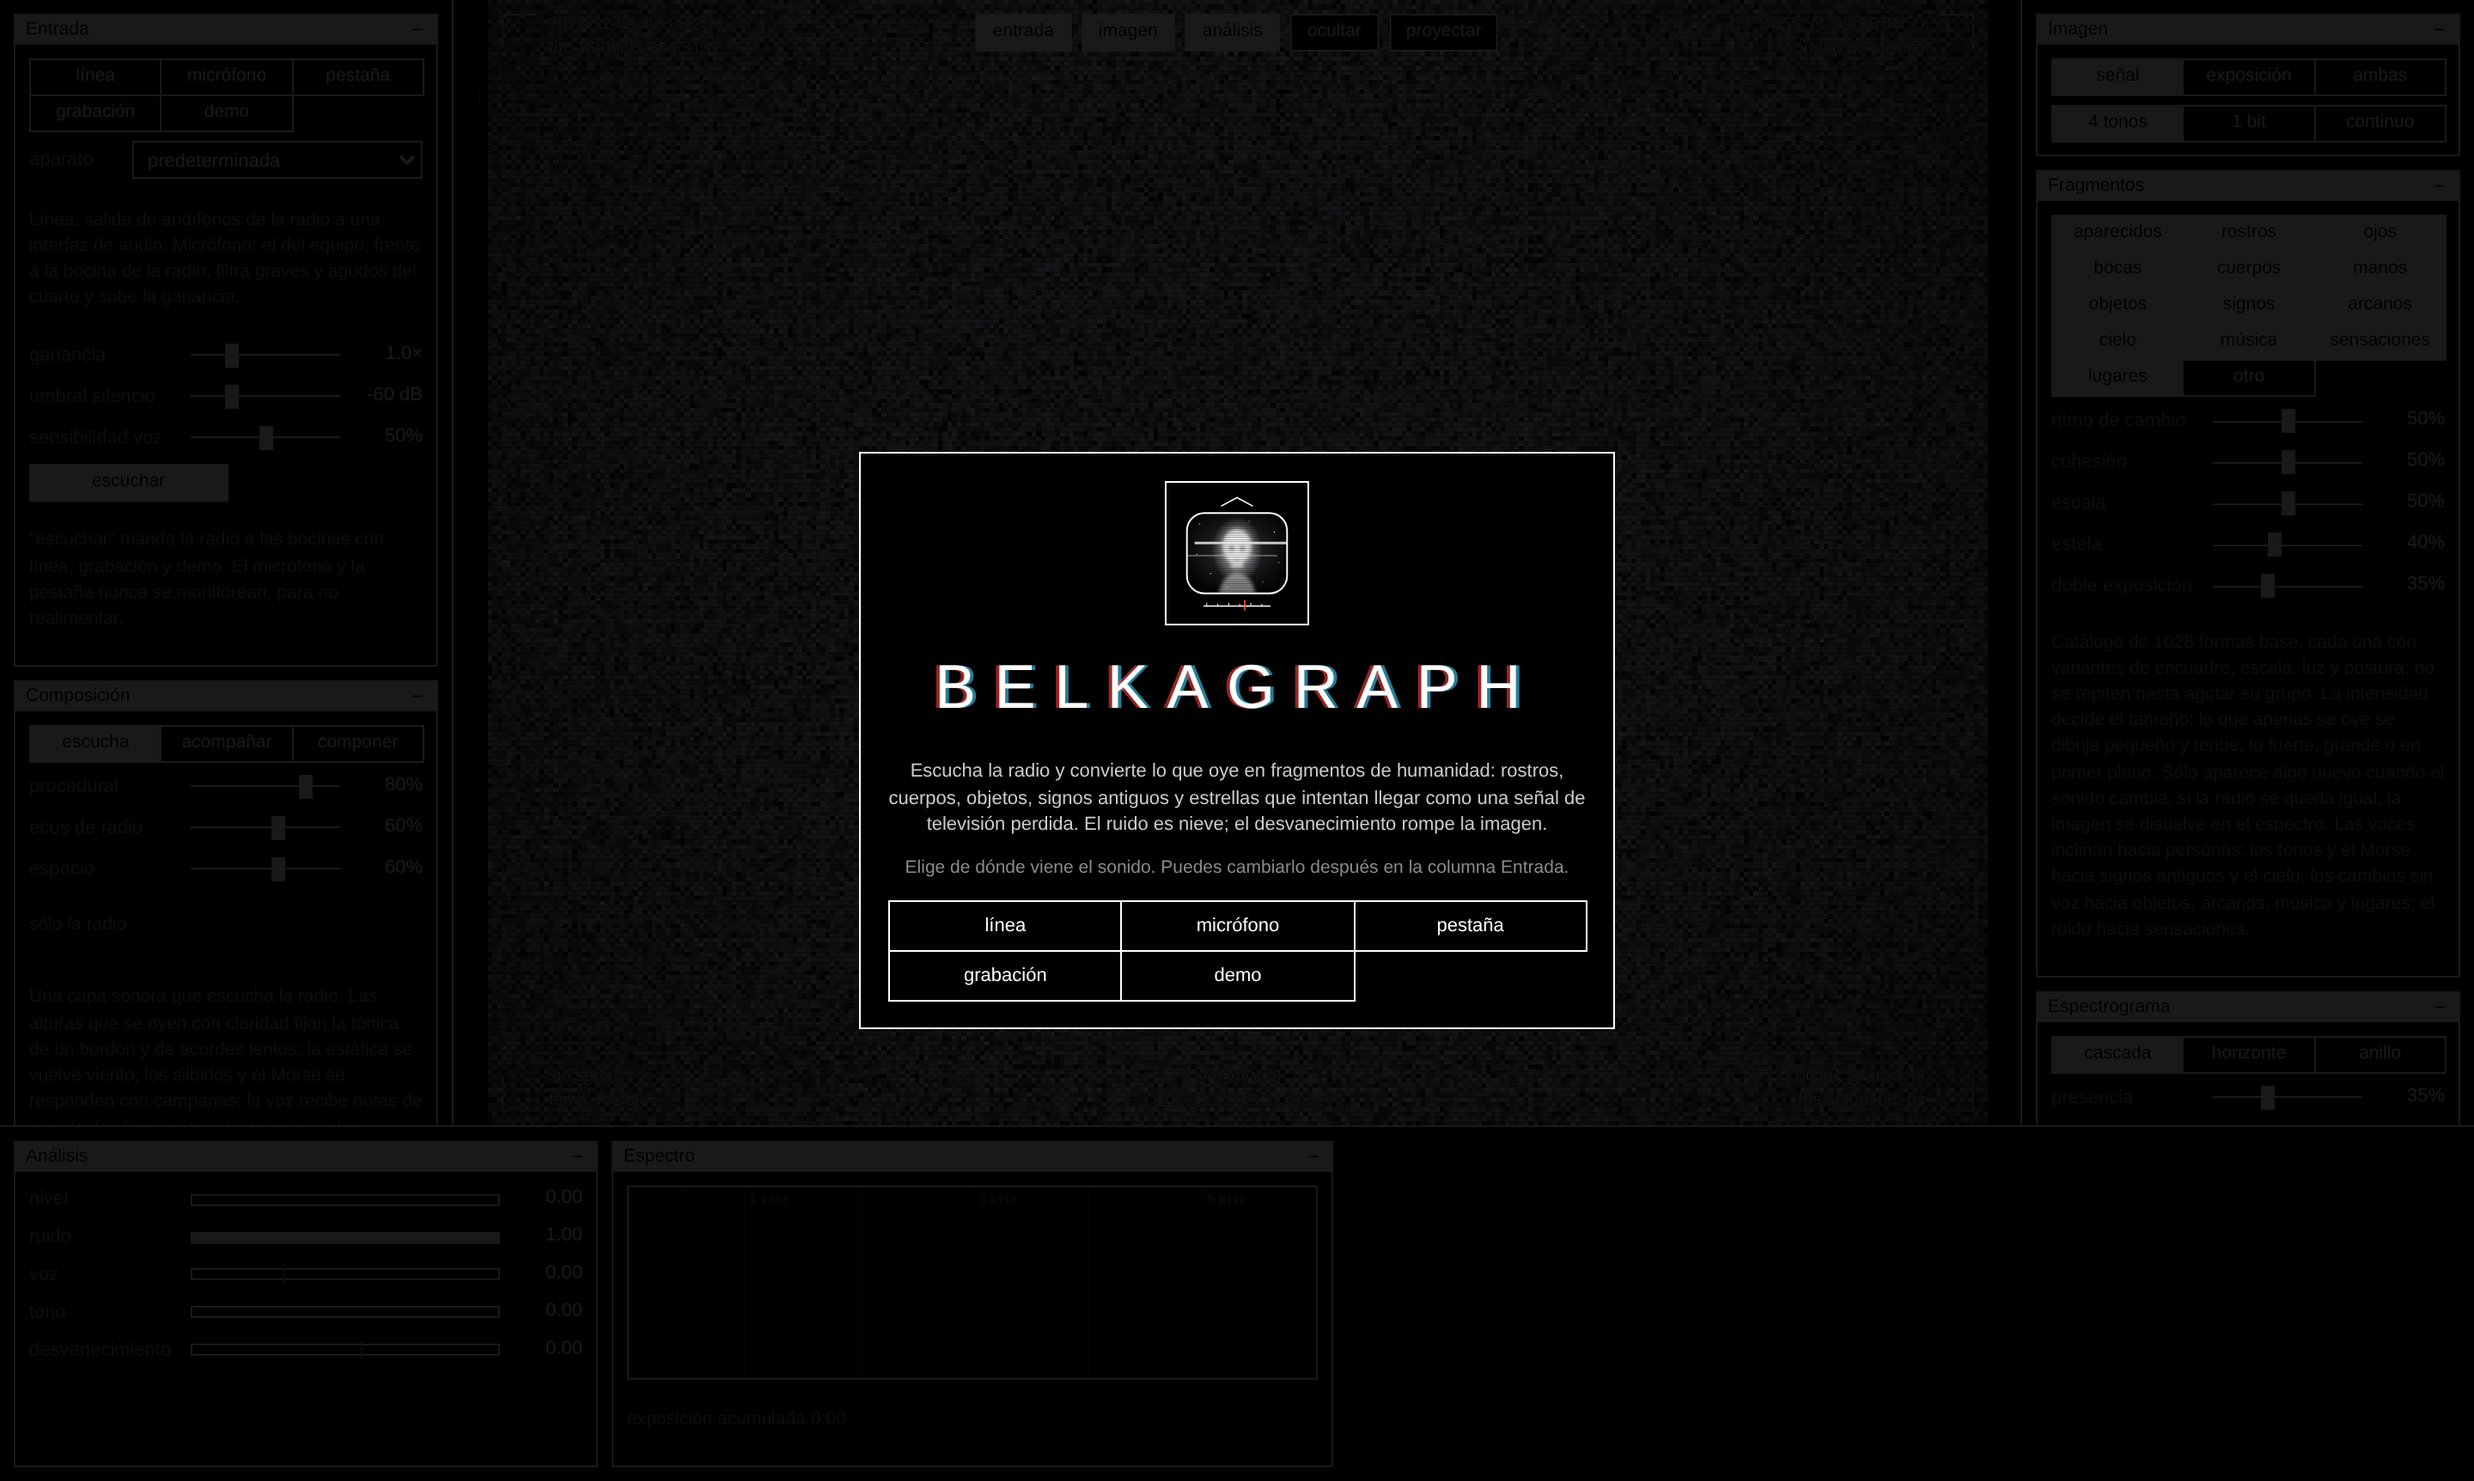
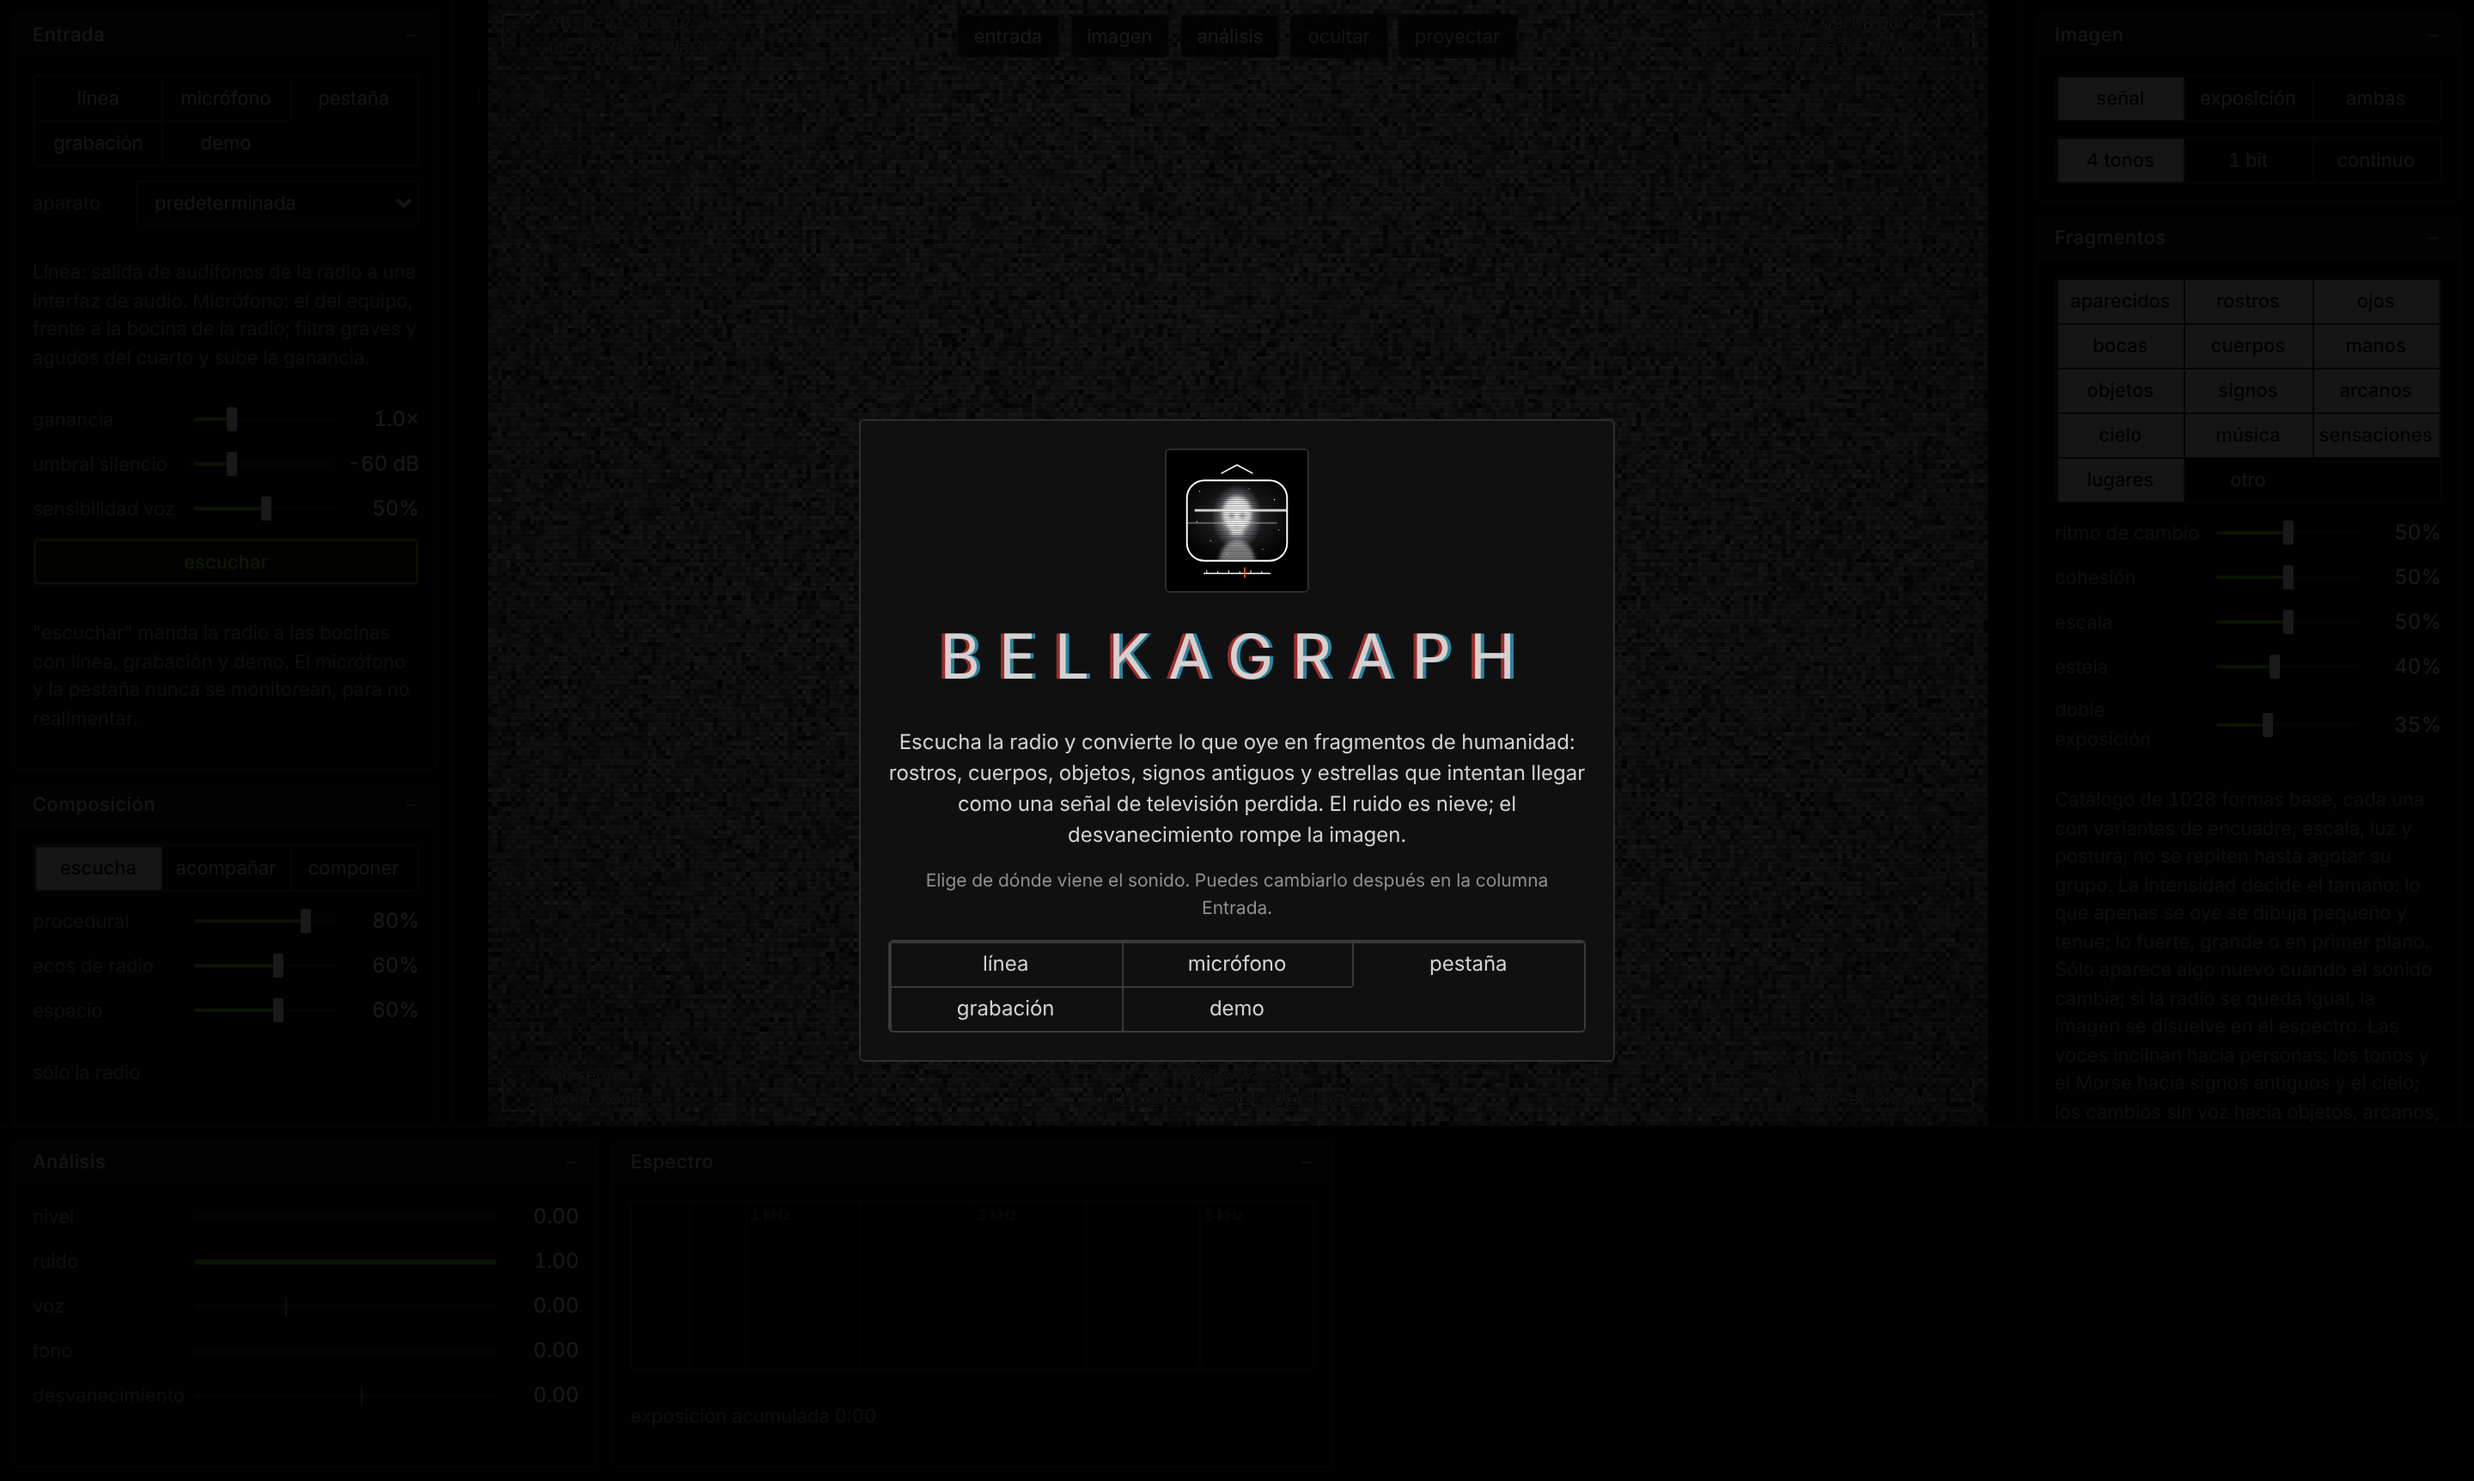
Belkagraph v020: interfaz con el estilo de la colección (alchemy-ui v1)
Ventanas grises de líneas finas, segmentados con el activo en tinta clara,
verde sólo para lo vivo (escuchar, acompañar, componer, medidores y relleno
de deslizadores), medidores de 3 px, scroll discreto. Capturas actualizadas.

Claude-Session: https://claude.ai/code/session_01BnGbnZn9TsuobG3mxSBJ2a

Changed region(s): [[0.3438, 0.2767, 0.6562, 0.7071]]

diff --git a/index.html b/index.html
@@ -151,6 +151,68 @@ body.nohud.showframe #frame{display:block!important}
 @media (max-width:700px){#frame .n,#fTitle{font-size:8.5px}}
 body.showframe #state,body.showframe #brand{display:none!important}
 body.showframe #aTag{bottom:auto;top:46px}
+
+/* ---------- Alchemy of Meaning · UI v1 (tokens y componentes de la colección) ---------- */
+:root{
+  --a-bg:#0a0a0a;--a-panel:#101010;--a-bar:#1c1c1c;--a-line:#2e2e2e;--a-line-ctl:#3a3a3a;--a-hover:#1f1f1f;
+  --a-ink:#d2d2d2;--a-ink-strong:#fff;--a-ink-dim:#8f8f8f;
+  --a-accent:#76c411;--a-accent-ink:#a5e04a;--a-accent-bg:#1b2512;
+  --a-radius:3px;--a-radius-sm:2px;--a-gap:8px;--a-pad:10px;--a-bar-h:24px;--a-ctl-h:32px;--a-t:120ms;
+  --a-font:Inter,Arial,Helvetica,sans-serif;--a-size:12px;--a-size-sm:11px;
+}
+:root[data-contrast="alto"]{--a-bg:#000;--a-panel:#000;--a-bar:#fff;--a-line:#fff;--a-line-ctl:#fff;--a-hover:#262626;--a-ink:#fff;--a-ink-dim:#a8a8a8}
+:root[data-contrast="alto"] .tb,:root[data-contrast="alto"] .tb button{color:#000}
+html,body,#app,#stage,.tube{background:var(--a-bg)}
+body{font:400 var(--a-size)/1.5 var(--a-font);color:var(--a-ink);font-variant-numeric:tabular-nums;-webkit-font-smoothing:antialiased}
+:focus-visible{outline:2px solid var(--a-accent);outline-offset:2px}
+/* ventanas */
+.win{border:1px solid var(--a-line);border-radius:var(--a-radius);background:var(--a-panel)}
+.tb{height:var(--a-bar-h);padding:0 var(--a-pad);background:var(--a-bar);border-bottom:1px solid var(--a-line);color:var(--a-ink);font-size:var(--a-size-sm);font-weight:500;letter-spacing:.02em}
+.tb button{color:var(--a-ink-dim);font-size:var(--a-size-sm)}.tb button:hover{color:var(--a-ink-strong)}
+.wb{padding:var(--a-pad);gap:var(--a-gap)}
+.col,#B{background:var(--a-bg);scrollbar-width:thin;scrollbar-color:var(--a-line-ctl) transparent}
+#L{border-right:1px solid var(--a-line)}#R{border-left:1px solid var(--a-line)}#B{border-top:1px solid var(--a-line)}
+/* botones */
+.b{background:transparent;color:var(--a-ink);border:1px solid var(--a-line-ctl);border-radius:var(--a-radius);font-size:var(--a-size);
+  transition:background var(--a-t),border-color var(--a-t),color var(--a-t)}
+.b:hover{background:var(--a-hover);border-color:#555}
+.b[aria-pressed="true"]{background:var(--a-accent-bg);border-color:var(--a-accent);color:var(--a-accent-ink)}
+.b.s{min-height:26px;font-size:var(--a-size-sm)}
+/* segmentados: el activo en tinta clara (el verde es solo para lo vivo) */
+.seg{border:1px solid var(--a-line-ctl);border-radius:var(--a-radius);overflow:hidden;gap:0}
+.seg .b{margin:0;border:0;border-radius:0;box-shadow:inset 1px 1px 0 var(--a-line-ctl);min-height:26px}
+.seg .b[aria-pressed="true"]{background:var(--a-ink);color:#0a0a0a;font-weight:500}
+.seg .b:hover:not([aria-pressed="true"]){background:var(--a-hover)}
+/* lo vivo: un alternador solo dentro de su grupo (escuchar, aparición, etc.) y el modo de composición que suena */
+.seg .b.live[aria-pressed="true"]{background:var(--a-accent-bg);color:var(--a-accent-ink);box-shadow:inset 0 0 0 1px var(--a-accent)}
+/* lecturas */
+.dr .lb,.mt .lb,.sel .lb,.note{color:var(--a-ink-dim);font-size:var(--a-size-sm)}
+output{color:var(--a-ink-strong)}
+select,.sel input{background:var(--a-panel);color:var(--a-ink);border:1px solid var(--a-line-ctl);border-radius:var(--a-radius-sm);font-size:var(--a-size-sm);padding:4px 6px}
+/* deslizador: línea de 2 px con relleno de acento, tirador 6×14 */
+input[type=range]::-webkit-slider-runnable-track{height:2px;border-radius:1px;background:linear-gradient(to right,var(--a-accent) var(--fill,0%),var(--a-line) var(--fill,0%))}
+input[type=range]::-webkit-slider-thumb{width:6px;height:14px;margin-top:-6px;border-radius:1px;background:var(--a-ink-strong)}
+input[type=range]::-moz-range-track{height:2px;background:var(--a-line)}
+input[type=range]::-moz-range-progress{height:2px;background:var(--a-accent)}
+input[type=range]::-moz-range-thumb{width:6px;height:14px;border-radius:1px;background:var(--a-ink-strong)}
+/* medidores finos */
+.mt .bar{height:3px;border:0;border-radius:2px;background:var(--a-line)}
+.mt .bar i{background:var(--a-accent);border-radius:2px;transition:width .15s}
+.mt .bar u{top:-4px;bottom:-4px;background:var(--a-ink-dim)}
+#spec{border:1px solid var(--a-line);border-radius:var(--a-radius-sm);background:var(--a-bg)}
+/* superpuestos */
+#show{background:var(--a-panel);border:1px solid var(--a-line-ctl);border-radius:var(--a-radius);color:var(--a-ink)}
+#state i{border-color:currentColor;border-radius:50%}
+#state i.on{background:currentColor}
+.card{background:var(--a-panel);border:1px solid var(--a-line);border-radius:var(--a-radius)}
+.card p{color:var(--a-ink)}.card p.tip{color:var(--a-ink-dim)}.card a{color:var(--a-ink-strong)}
+.card h2,.card h3{color:var(--a-ink-strong)}
+.appIcon{border:1px solid var(--a-line);border-radius:var(--a-radius)}
+#start .seg{border-color:var(--a-line-ctl)}
+#top .b{background:rgba(16,16,16,.85)}
+#top .b[aria-pressed="true"]{background:rgba(16,16,16,.85);border-color:#666;color:var(--a-ink-strong)}
+.g1{grid-template-columns:1fr}
+#toast{background:var(--a-panel);border:1px solid var(--a-line-ctl);border-radius:var(--a-radius);color:var(--a-ink);font-size:var(--a-size-sm)}
 </style>
 </head>
 <body>
@@ -1871,10 +1933,10 @@ function build(){
   wb.append(slider('ganancia',()=>S.gain/4,v=>{S.gain=Math.max(.05,v*4);applyChain();},v=>(v*4).toFixed(1)+'×'));
   wb.append(slider('umbral silencio',()=>S.gate,v=>{S.gate=v;},v=>{const g=.0003*Math.pow(100,v);return (20*Math.log10(g)).toFixed(0)+' dB';}));
   wb.append(slider('sensibilidad voz',()=>S.sens,v=>{S.sens=v;},pct));
-  wb.append(segOf('g2',[tgBtn('escuchar',()=>S.monitor,()=>{S.monitor=!S.monitor;applyChain();})]));
+  wb.append(segOf('g1',[tgBtn('escuchar',()=>S.monitor,()=>{S.monitor=!S.monitor;applyChain();},'b s live')]));
   wb.append(el('p','note','"escuchar" manda la radio a las bocinas con línea, grabación y demo. El micrófono y la pestaña nunca se monitorean, para no realimentar.'));
   wb=win('Composición','wSnd',L);
-  wb.append(segOf('g3',[tgBtn('escucha',()=>S.snd.mode==='escucha',()=>sndMode('escucha')),tgBtn('acompañar',()=>S.snd.mode==='acompañar',()=>sndMode('acompañar')),tgBtn('componer',()=>S.snd.mode==='componer',()=>sndMode('componer'))]));
+  wb.append(segOf('g3',[tgBtn('escucha',()=>S.snd.mode==='escucha',()=>sndMode('escucha')),tgBtn('acompañar',()=>S.snd.mode==='acompañar',()=>sndMode('acompañar'),'b s live'),tgBtn('componer',()=>S.snd.mode==='componer',()=>sndMode('componer'),'b s live')]));
   wb.append(slider('procedural',()=>S.snd.proc,v=>{S.snd.proc=v;sndLevels();},pct));
   wb.append(slider('ecos de radio',()=>S.snd.ecos,v=>{S.snd.ecos=v;sndLevels();},pct));
   wb.append(slider('espacio',()=>S.snd.space,v=>{S.snd.space=v;sndLevels();},pct));
@@ -2039,6 +2101,9 @@ addEventListener('keydown',e=>{
 function fit(){const st=$('#stage'),tb=$('.tube'),w=st.clientWidth,h=st.clientHeight;let tw=w,th=w*3/4;if(th>h){th=h;tw=h*4/3;}tb.style.width=Math.floor(tw)+'px';tb.style.height=Math.floor(th)+'px';}
 new ResizeObserver(fit).observe($('#stage'));
 buildVig();newFrag('rostro');build();fit();applyFrame();
+// relleno de acento en los deslizadores
+{const fill=r=>{const mn=+r.min||0,mx=+r.max||1;r.style.setProperty('--fill',((+r.value-mn)/(mx-mn)*100)+'%');};
+ document.querySelectorAll('input[type=range]').forEach(fill);addEventListener('input',e=>{if(e.target.type==='range')fill(e.target);},true);}
 requestAnimationFrame(frame);
 // instalar y usar sin conexión: sólo funciona servido desde tu host (https) o localhost
 try{if('serviceWorker' in navigator&&(location.protocol==='https:'||location.hostname==='localhost')&&window.top===window.self)

diff --git a/README.md b/README.md
@@ -28,6 +28,8 @@ Nació de la escucha con un receptor Belka DX y de la memoria de los grandes rad
 
 ![La ventana Composición](docs/capturas/05-composicion.png)
 
+**Interfaz de la colección.** Sigue el estilo de Alchemy of Meaning: ventanas pequeñas sobre negro, líneas finas, lecturas con valor real y un solo acento verde para lo que está vivo (la radio sonando, la composición activa, los medidores y el relleno de los deslizadores).
+
 **Para escena.** Pantalla completa sin interfaz, control general de reacción (7% por defecto), exposición acumulada de toda la escucha y guardado del cuadro en PNG. Se instala como app y funciona sin conexión.
 
 ![Pantalla de inicio: elegir de dónde viene el sonido](docs/capturas/01-inicio.png)
